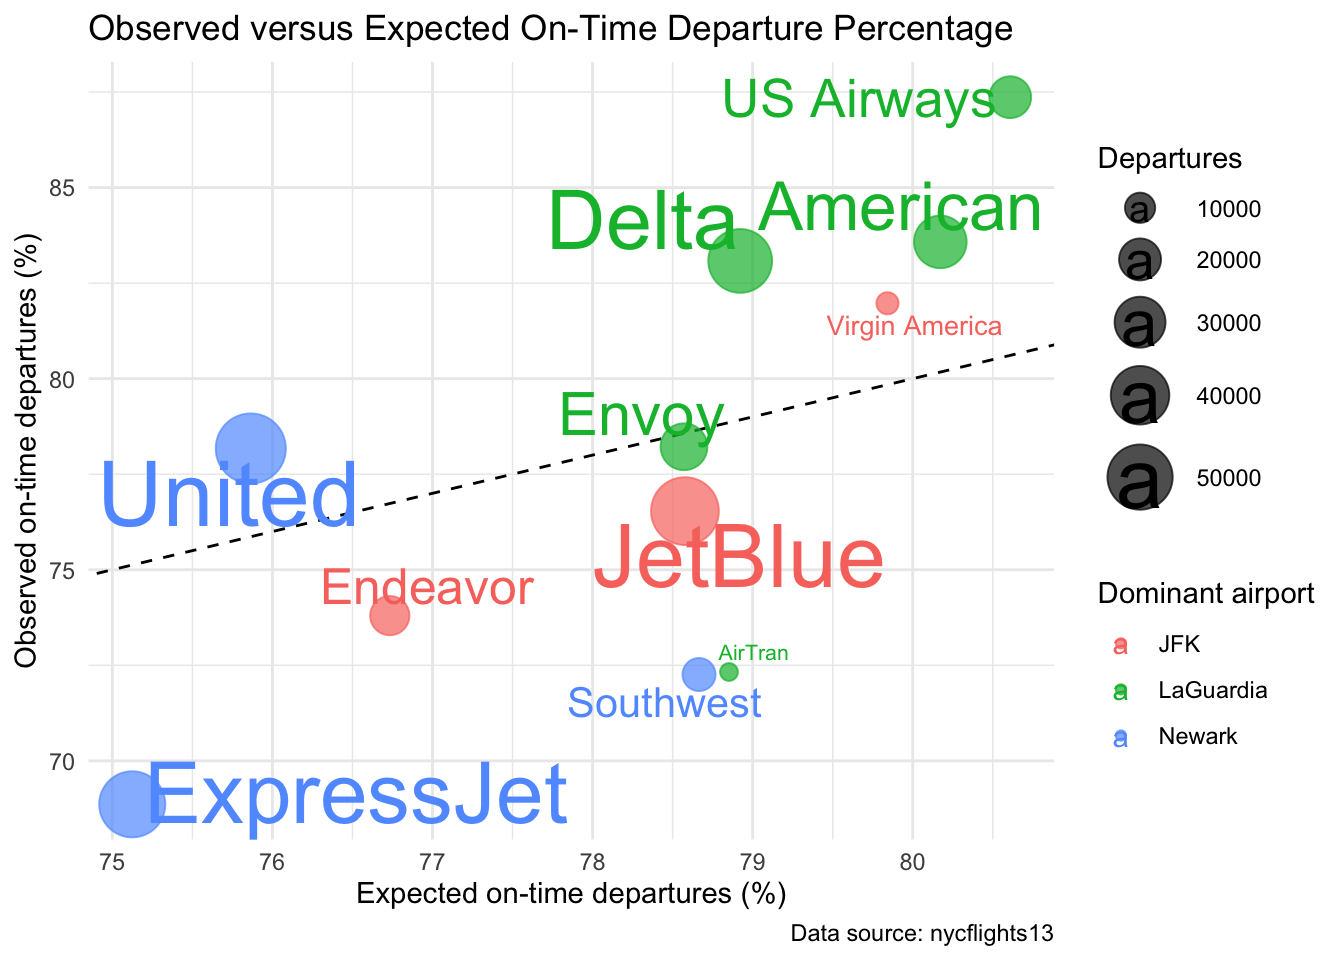
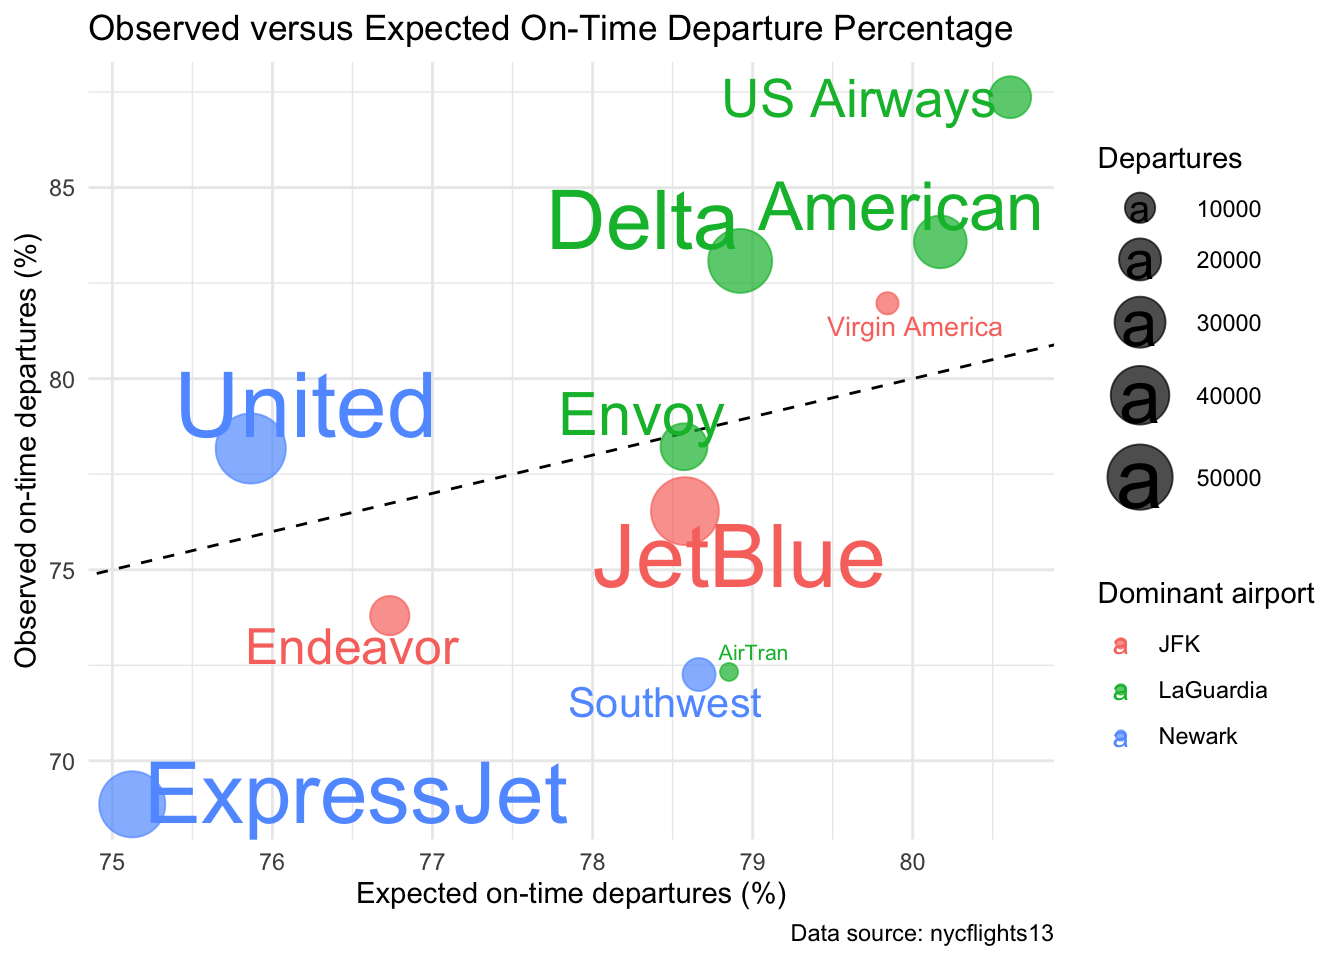
final

diff --git a/team-navy-nyc-delays-lab.html b/team-navy-nyc-delays-lab.html
@@ -346,8 +346,8 @@ pre > code.sourceCode > span > a:first-child::before { text-decoration: underlin
 <p><strong>Is the dominant departure airport of the busiest airline also the airport with the lowest on-time percentage? If so, what does that suggest? Could the airline’s raw rank partly reflect where it flies rather than its schedule-adjusted punctuality?</strong></p>
 <p>The dominant departure airport of United Airlines is Newark and it has the lowest on-time percentage. This suggests that United airlines raw rank may partly reflect where it flies rather than its schedule-adjusted punctuality.</p>
 </section>
-<section id="on-time-departures-by-time-of-day-and-airport-heatmap" class="level3">
-<h3 class="anchored" data-anchor-id="on-time-departures-by-time-of-day-and-airport-heatmap">3.6 On-Time Departures by Time of Day and Airport (Heatmap)</h3>
+<section id="on-time-departures-by-time-of-day-and-airport" class="level3">
+<h3 class="anchored" data-anchor-id="on-time-departures-by-time-of-day-and-airport">3.6 On-Time Departures by Time of Day and Airport</h3>
 <div class="cell">
 <div class="code-copy-outer-scaffold"><div class="sourceCode cell-code" id="cb13"><pre class="sourceCode r code-with-copy"><code class="sourceCode r"><span id="cb13-1"><a href="#cb13-1" aria-hidden="true" tabindex="-1"></a>hour_airport <span class="ot">&lt;-</span> departures <span class="sc">%&gt;%</span></span>
 <span id="cb13-2"><a href="#cb13-2" aria-hidden="true" tabindex="-1"></a>  <span class="fu">group_by</span>(airport, hour) <span class="sc">%&gt;%</span></span>
@@ -383,8 +383,8 @@ pre > code.sourceCode > span > a:first-child::before { text-decoration: underlin
 <p><strong>You mapped airport to color and linetype—two visual properties for one variable. Briefly justify this apparent redundancy: What does line type protect against that color alone does not?</strong></p>
 <p>Mapping airport to both color and linetype makes the lines easier to distinguish if the plot is printed in grayscale or viewed by someone who is color blind or deficient.</p>
 </section>
-<section id="schedule-mix-by-airline-hourly-profile" class="level3">
-<h3 class="anchored" data-anchor-id="schedule-mix-by-airline-hourly-profile">3.7 Schedule Mix by Airline (Hourly profile)</h3>
+<section id="schedule-mix-by-airline" class="level3">
+<h3 class="anchored" data-anchor-id="schedule-mix-by-airline">3.7 Schedule Mix by Airline</h3>
 <div class="cell">
 <div class="code-copy-outer-scaffold"><div class="sourceCode cell-code" id="cb14"><pre class="sourceCode r code-with-copy"><code class="sourceCode r"><span id="cb14-1"><a href="#cb14-1" aria-hidden="true" tabindex="-1"></a>hourly_mix <span class="ot">&lt;-</span> departures <span class="sc">%&gt;%</span></span>
 <span id="cb14-2"><a href="#cb14-2" aria-hidden="true" tabindex="-1"></a>  <span class="fu">filter</span>(airline <span class="sc">%in%</span> departures_by_airline_big<span class="sc">$</span>airline) <span class="sc">%&gt;%</span></span>